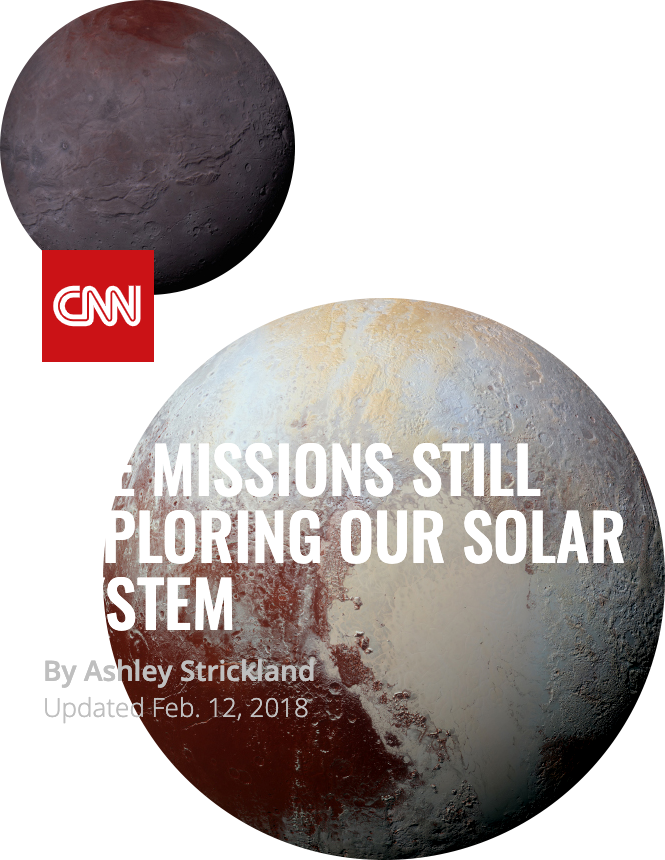
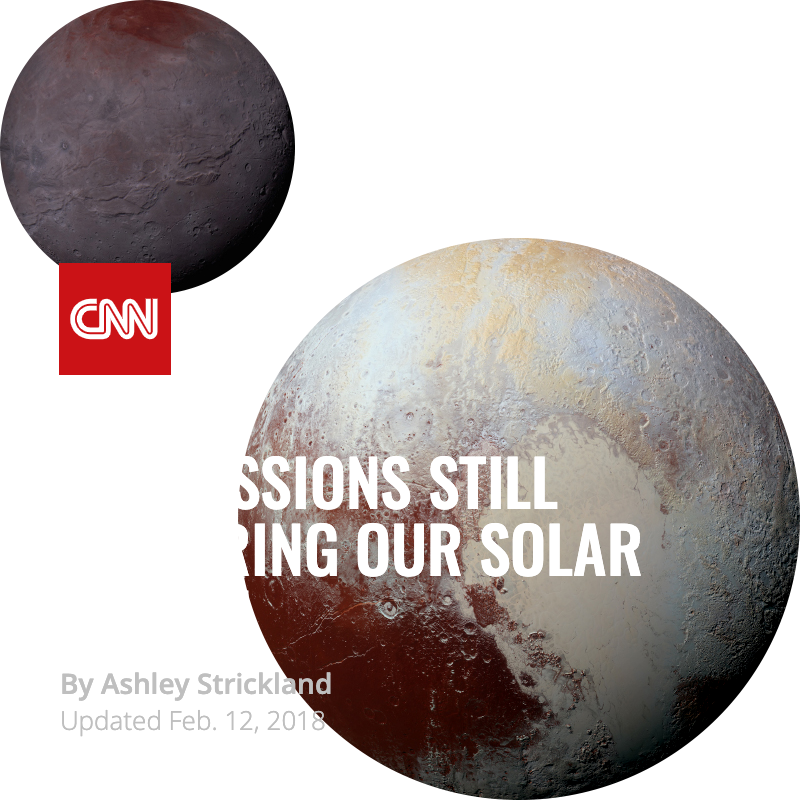
:sparkles: Add format-visual stories.

diff --git a/frontend/scss/components/molecules/format-visual-stories.scss b/frontend/scss/components/molecules/format-visual-stories.scss
@@ -1,0 +1,118 @@
+/*
+
+#############################
+### MOLECULE: format-visual ###
+#############################
+
+### INFO:
+
+format-visual contains a code-snippet component along with two amp-img components. The component inside the the code-snippet should manipulate
+the border and format around the images.
+
+### MODIFIERS:
+
+
+*/
+
+@import '../../extends';
+@import '../../functions';
+@import '../../mixins';
+@import '../../variables';
+
+@import '../atoms/_color.scss';
+@import '../atoms/_text.scss';
+@import '../atoms/component-frame.scss';
+
+.#{molecule('format-visual-stories')} {
+  position: relative;
+  width: 100%;
+  max-width: 55%;
+  padding: 0.5em 0;
+  margin: 0 auto;
+  transform: rotate3d(135, -90, 90, 50deg);
+  display: grid;
+  grid-template-columns: 3fr 94fr 3fr;
+  grid-template-rows: 17fr 76fr 7fr;
+
+  &:after {
+    content: '';
+    width: 100%;
+    height: auto;
+    position: absolute;
+    bottom: 0;
+    left: 0;
+    padding-top: 100%;
+    border-radius: 1000% 0 0 0 / 1000% 0 0 0;
+    opacity: 0.5;
+    transform: rotate(-5deg) scale(1, 1.1) skew(-25deg);
+    transform-origin: right bottom;
+    background: linear-gradient(-225deg, transparent 30%, color('black'));
+    filter: blur(20px);
+    z-index: -1;
+  }
+
+  &-image {
+    width: 100%;
+    height: auto;
+    margin: auto;
+  }
+
+  &-bottom-image {
+    grid-column: 2 / 3;
+    grid-row: 1 / 4;
+    max-width: 100%;
+    transform: translateX(0);
+  }
+
+  &-top-image {
+    grid-column: 1 / 4;
+    grid-row: 2 / 3;
+    max-width: 100%;
+    @include component-frame;
+    @include component-frame-stories;
+    background-color: transparent;
+    transform: translateX(0);
+  }
+
+  &-code-snippet {
+    grid-column: 2 / 3;
+    grid-row: 2 / 3;
+    width: 75%;
+    margin-top: auto;
+    font-size: 10px;
+    filter: drop-shadow(20px 20px 20px rgba(0, 0, 0, 0.2));
+    transform: translate(75%, -30px);
+    
+    @media screen and (min-width: 768px) {
+      font-size: inherit;
+    }
+    
+    .#{molecule('code-snippet')} {
+      margin: 0;
+      animation: 10s ease-in-out infinite bounce -2s;
+    }
+
+    &-highlight:before {
+      content: 'right';
+      color: #e6db74;
+      animation: 10s ease-in-out 3.5s infinite both highlight-code;
+    }
+  }
+}
+
+@keyframes highlight-code {
+  0%, 90%, 100% { content: 'right'; background-color: transparent; }
+  9% { content: 'right'; background-color: color('pink-flamingo'); }
+  18% { content: " "; background-color: color('pink-flamingo'); }
+  36% { content: 'left'; background-color: color('pink-flamingo'); }
+  45%, 54% { content: 'left'; background-color: transparent; }
+  63% { content: 'left'; background-color: color('pink-flamingo'); }
+  72% { content: " "; background-color: color('pink-flamingo'); }
+  81% { content: 'right'; background-color: color('pink-flamingo'); }
+}
+
+@keyframes bounce {
+  0% { transform: translate(0, 0); }
+  50% { transform: translate(10px, 20px); }
+  100% { transform: translate(0, 0); }
+}

diff --git a/frontend/scss/components/atoms/component-frame.scss b/frontend/scss/components/atoms/component-frame.scss
@@ -24,69 +24,67 @@ format modifiers for differen color rendering (e.g. websites -> blue border, ads
 
   &:before {
     content: '';
-    width: calc(100% + 6px);
-    height: calc(100% + 6px);
+    width: 100%;
+    height: 100%;
     position: absolute;
     left: -3px;
     top: -3px;
-    @include gradient-default;
+    border: 3px solid color('doger-blue');
     
     @media screen and (min-width: 768px) {
-      width: calc(100% + 8px);
-      height: calc(100% + 8px);
       left: -4px;
       top: -4px;
+      border-width: 4px;
     }
     
     @media screen and (min-width: 1024px) {
-      width: calc(100% + 10px);
-      height: calc(100% + 10px);
       left: -5px;
       top: -5px;
+      border-width: 5px;
     }
   }
   
   &:after {
+    @include txt;
+    @include txt-mono;
+    @include txt-strong;
+    @include color-white;
     content: attr(title);
     position: absolute;
     left: -3px;
     bottom: 100%;
     padding: 3px 6px;
-    background-color: color('doger-blue');
-    @include txt;
     font-size: 8px;
-    @include txt-mono;
-    @include txt-strong;
-    @include color-white;
-
+    background-color: color('doger-blue');
+    
     @media screen and (min-width: 768px) {
-      left: -5px;
+      left: -4px;
       padding: 5px 10px;
       font-size: inherit;
+    }
+
+    @media screen and (min-width: 1024px) {
+      left: -5px;
     }
   }
 }
 
 @mixin component-frame-websites {
-  &:before {
-    @include gradient-websites;
-  }
-}
-
-@mixin component-frame-ads {
-  &:before {
-    @include gradient-ads;
-  }
+  &:before { border-color: color('doger-blue'); }
+  &:after { @include gradient-websites; }
 }
 
 @mixin component-frame-stories {
-  &:before {
-    @include gradient-stories;
-  }
+  &:before { border-color: color('school-bus'); }
+  &:after { @include gradient-stories; }
+}
+
+@mixin component-frame-ads {
+  &:before { border-color: color('lavender-magenta'); }
+  &:after { @include gradient-ads; }
 }
 
 @mixin component-frame-emails {
-  &:before {
-    @include gradient-emails;
-  }
+  &:before { border-color: color('confetti'); }
+  &:after { @include gradient-emails; }
 }

diff --git a/pages/content/amp-dev/index.html b/pages/content/amp-dev/index.html
@@ -38,7 +38,7 @@ format_explainer:
     url: /what-is-amp/websites.html
   stories:
     name: stories
-    visual: views/partials/format-visuals/websites.j2
+    visual: views/partials/format-visuals/stories.j2
     headline: AMP enables great experiences across many stories
     description: Whether used by publishers, ad tech companies or email providers, AMP enables the easy creation of great experiences on stories. By ensuring user experience comes first, developers can rest assured what they create will be compelling and engaging.
     url: /what-is-amp/stories.html
@@ -181,15 +181,15 @@ sampler:
         </div>
         <div hidden class="ad-o-format-explainer-visual-{{ doc.format_explainer.stories.name }}"
           [hidden]="activeFormat != '{{ doc.format_explainer.stories.name }}'">
-          {% include doc.format_explainer.websites.visual %}
+          {% include doc.format_explainer.stories.visual %}
         </div>
         <div hidden class="ad-o-format-explainer-visual-{{ doc.format_explainer.ads.name }}"
           [hidden]="activeFormat != '{{ doc.format_explainer.ads.name }}'">
-          {% include doc.format_explainer.websites.visual %}
+          {% include doc.format_explainer.ads.visual %}
         </div>
         <div hidden class="ad-o-format-explainer-visual-{{ doc.format_explainer.emails.name }}"
           [hidden]="activeFormat != '{{ doc.format_explainer.emails.name }}'">
-          {% include doc.format_explainer.websites.visual %}
+          {% include doc.format_explainer.emails.visual %}
         </div>
       </div>
 

diff --git a/frontend/scss/components/organisms/stage.scss b/frontend/scss/components/organisms/stage.scss
@@ -50,7 +50,8 @@
     }
   }
 
-  .#{molecule('format-visual-websites')} {
+  .#{molecule('format-visual-websites')},
+  .#{molecule('format-visual-stories')} {
     grid-column: 9 / -1;
     position: absolute;
     left: 50%;

diff --git a/pages/content/amp-dev/what-is-amp/stories.md b/pages/content/amp-dev/what-is-amp/stories.md
@@ -9,7 +9,7 @@ $view: /views/overview/what-is-amp.j2
 # Use AMP to easily create user first stories.
 [/stage]
 
-{% include 'views/partials/format-visuals/websites.j2' %}
+{% include 'views/partials/format-visuals/stories.j2' %}
 </section>
 
 <section class="ad--kpi">
